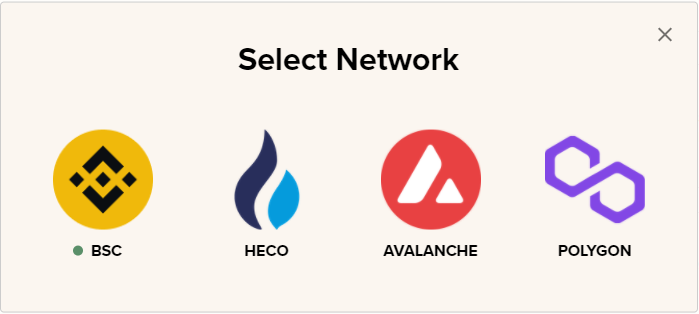
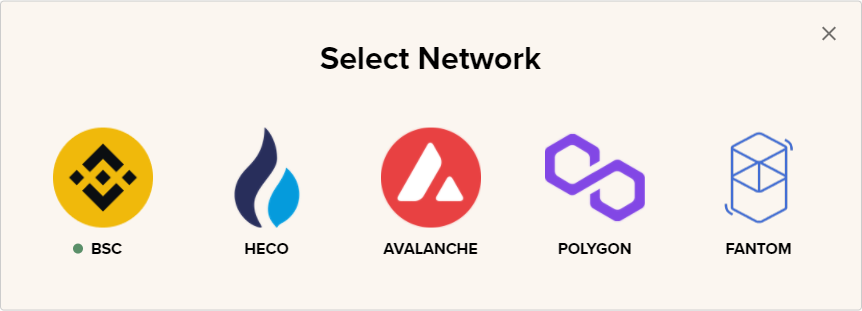
Update docs
Add BIFI Fantom address
Add Fantom icon in network switch
Update "How do Venus vaults work" and generalize it to include Aave

diff --git a/faq/products/vaults.md b/faq/products/vaults.md
@@ -91,9 +91,12 @@ Each vault on the platform is named after the token that users can deposit in it
 
 Underneath the vault name, you can find the platform used for investing the token and farming its yields. For example, Uses: Venus means that that particular vault invests the token in Venus, a DeFi algorithmic money market and synthetic stablecoin protocol.
 
-## **How do Venus vaults work?**
+## **How do Aave and Venus vaults work?**
 
-Venus is a decentralized marketplace for lenders and borrowers. By depositing your initial asset in the vault, Beefy deposits it into Venus and borrows against your token. This is done at a safe level of collateral. 
+Aave and Venus are decentralized marketplaces for lenders and borrowers. By depositing your initial asset in the vault, Beefy deposits it into Aave or Venus and borrows against your token. This is done at safe levels of collateral. 
 
-The borrowed tokens are then redeposited into the platform, and once again used as collateral to borrow more tokens. This cycle is repeated multiple times and $XVS \(the Venus platform token\) is farmed and sold to purchase more of your originally deposited assets. It is noteworthy that this "leveraged" multi lending and multi borrowing is only with the native token, so there is no liquidation risk due to price swings. Also, because it has to withdraw through the multi supply/borrow cycle, the transaction fee for Venus vaults is also almost 4x as high compared to other vaults. Venus vault APY's are mainly depended on Venus interest rates and the $XVS price.
+The borrowed tokens are then redeposited into the platform, and once again used as collateral to borrow more tokens. This cycle is repeated multiple times to generate as much interest as possible to buy more of your originally deposited assets. It is noteworthy that this "leveraged" multi lending and multi borrowing is only with the native token, so there is no liquidation risk due to token price swings. Also, because of the multi supply/borrow cycle, a transaction fee for these vaults is generally 4x as high as compared to other vaults.
 
+Because of accruing debt/supply interest, one may notice that the deposited token amount may decline ever so slightly in between harvests. After the harvest, you will see your deposited token amount go up as the yields are compounded back into it. The change in deposited token amount over time of typical Aave / Venus style vault looks as follows:
+
+![After a harvest event, the yields are added to the deposited token amount](../../.gitbook/assets/venus-style-vault.png)

diff --git a/faq/bifi-token/contract-addresses.md b/faq/bifi-token/contract-addresses.md
@@ -6,3 +6,4 @@ The BIFI token is deployed on all chains where vaults are live. To switch to ano
 * HECO: [0x765277eebeca2e31912c9946eae1021199b39c61](https://hecoinfo.com/token/0x765277eebeca2e31912c9946eae1021199b39c61)
 * Avalanche: [0xd6070ae98b8069de6b494332d1a1a81b6179d960](https://cchain.explorer.avax.network/tokens/0xd6070ae98b8069de6B494332d1A1a81B6179D960/token-transfers)
 * Polygon: [0xfbdd194376de19a88118e84e279b977f165d01b8](https://explorer-mainnet.maticvigil.com/tokens/0xFbdd194376de19a88118e84E279b977f165d01b8/token-transfers)
+* Fantom: [0xd6070ae98b8069de6b494332d1a1a81b6179d960](https://ftmscan.com/token/0xd6070ae98b8069de6b494332d1a1a81b6179d960)
